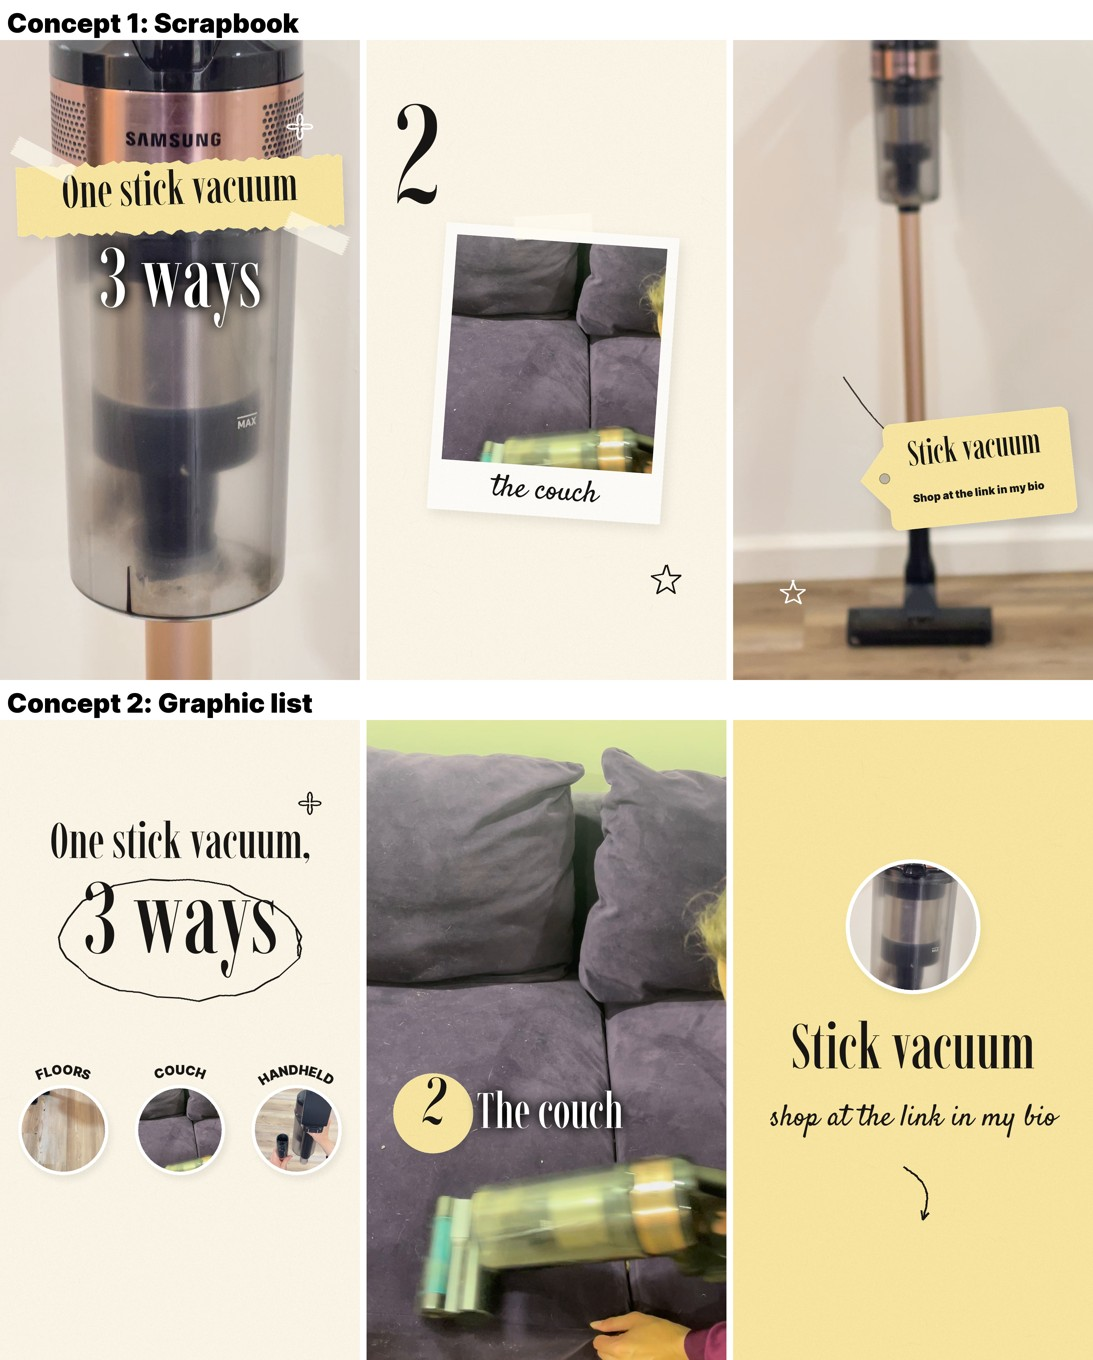
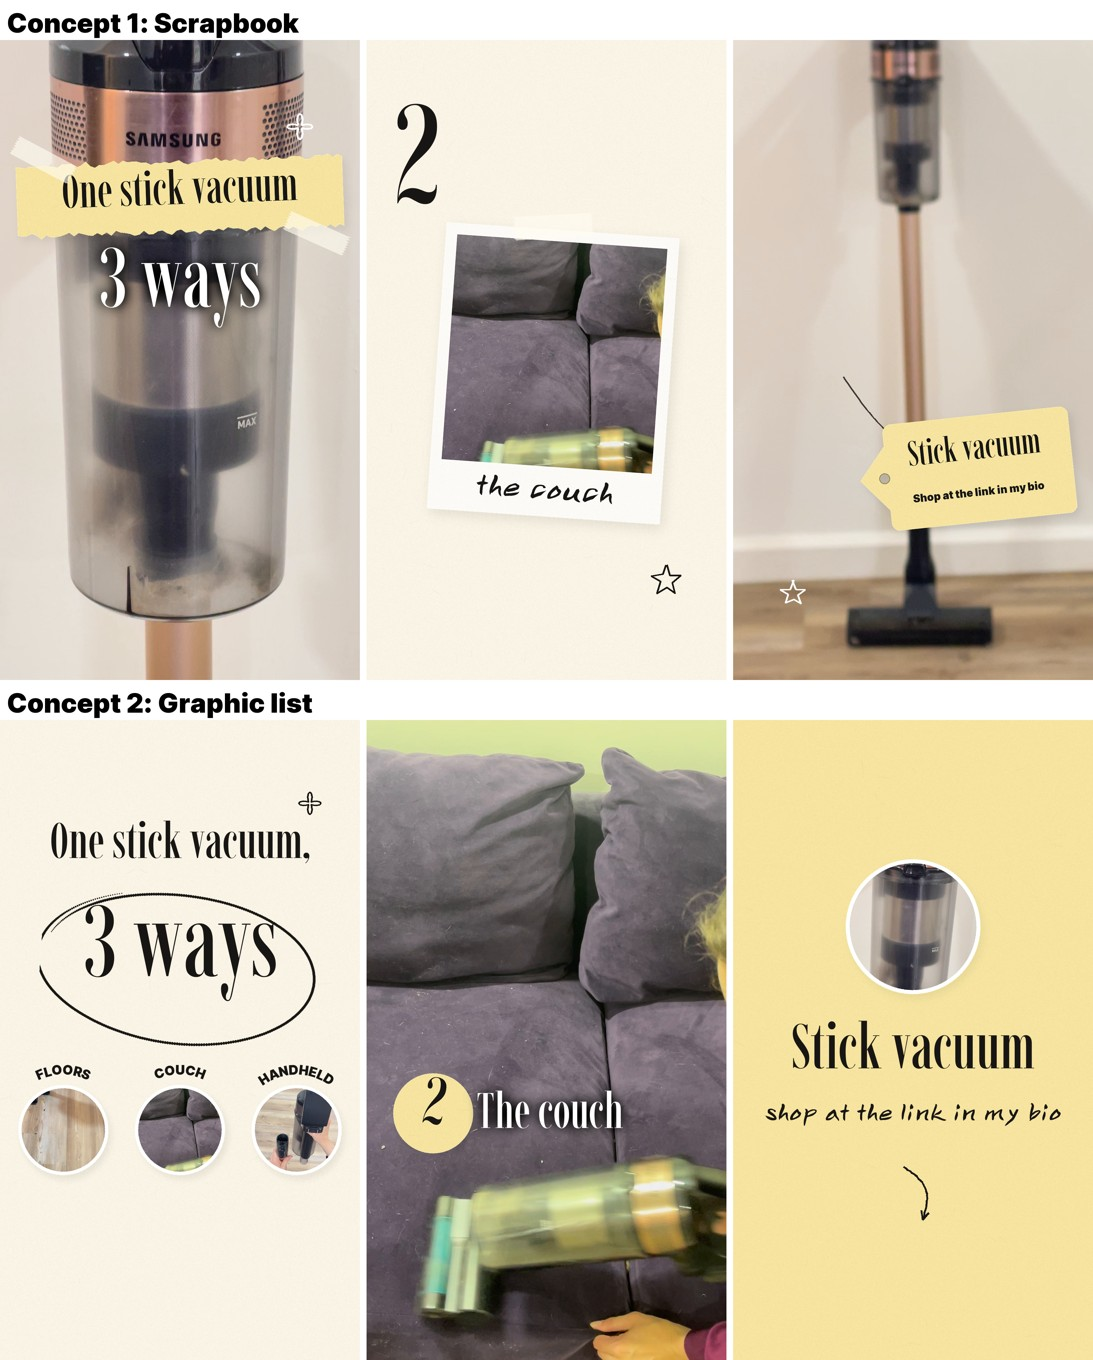
Reel Template Packs: casual handwriting font (JS Arirang PPURI) and a smoother pen loop in the concepts

diff --git a/automation/reel-template-pack/build/whimsy_concepts.py b/automation/reel-template-pack/build/whimsy_concepts.py
@@ -26,7 +26,7 @@ def scrap_hook(img):
 def scrap_label(img_clip):
     bg = C.paper((W, H), CREAM, seed=21)
     pol = C.polaroid(img_clip, (700, 860), seed=22)
-    d = ImageDraw.Draw(pol); f = F('satisfy', 92); t = 'the couch'
+    d = ImageDraw.Draw(pol); f = F('hand', 96); t = 'the couch'
     d.text((350 - d.textlength(t, font=f) / 2, 860 - 140), t, font=f, fill=INK)
     bg = C.place(bg, C.shadow(pol, blur=18, alpha=80), (560, 1000), -4)
     bg = C.place(bg, C.tape(240, 70, seed=23), (560, 560), 3)
@@ -49,8 +49,8 @@ def list_hook(clips):
     bg = C.paper((W, H), CREAM, seed=41)
     d = ImageDraw.Draw(bg)
     centered(d, 300, 'One stick vacuum,', F('imbue', 150), INK)
-    centered(d, 470, '3 ways', F('imbue', 300), INK)
-    bg = C.place(bg, C.hand_circle((720, 360), INK, 5, seed=42), (540, 660), -3)
+    centered(d, 540, '3 ways', F('imbue', 300), INK)
+    bg = C.place(bg, C.pen_loop((800, 440), INK, 8, seed=43), (540, 745), -4)
     names = ['FLOORS', 'COUCH', 'HANDHELD']
     for i, (clip, name) in enumerate(zip(clips, names)):
         cx = 190 + i * 350; cy = 1230
@@ -73,7 +73,7 @@ def list_cta(clip):
     bg = C.place(bg, C.shadow(C.round_photo(clip, 380, (255, 255, 255), 12), blur=12, alpha=60), (540, 620), -4)
     d = ImageDraw.Draw(bg)
     centered(d, 900, 'Stick vacuum', F('imbue', 190), INK)
-    centered(d, 1130, 'shop at the link in my bio', F('satisfy', 90), INK)
+    centered(d, 1130, 'shop at the link in my bio', F('hand', 78), INK)
     bg = C.place(bg, C.arrow(170, INK, 6, 40, seed=62).rotate(-70, expand=True), (540, 1420))
     return bg
 

diff --git a/automation/reel-template-pack/build/collage.py b/automation/reel-template-pack/build/collage.py
@@ -169,3 +169,20 @@ def hand_circle(size=(300, 140), color=(24, 22, 20), width=5, seed=9):
            for a in [i / 40 * 2.15 * math.pi - 0.3 for i in range(41)]]
     ImageDraw.Draw(im).line(pts, fill=color, width=width, joint='curve')
     return im
+
+def pen_loop(size=(760, 380), color=(24, 22, 20), width=9, turns=1.12, start_deg=200, seed=10, ss=3):
+    """A smooth hand-drawn loop: one pen stroke going around once and a bit, ends crossing, tapered at both ends.
+    Drawn 3x larger and scaled down so the edge is smooth."""
+    r = rng(seed); w, h = size; W2, H2 = (w + 40) * ss, (h + 40) * ss
+    im = Image.new('RGBA', (W2, H2), (0, 0, 0, 0)); d = ImageDraw.Draw(im)
+    ph1, ph2 = r.uniform(0, 6.28), r.uniform(0, 6.28)
+    n = 400; total = turns * 2 * math.pi; a0 = math.radians(start_deg)
+    for i in range(n + 1):
+        t = i / n; a = a0 + total * t
+        wob = 1 + 0.035 * math.sin(2 * a + ph1) + 0.02 * math.sin(3 * a + ph2) + 0.05 * t  # drifts outward a little
+        x = W2 / 2 + (w / 2) * ss * wob * math.cos(a)
+        y = H2 / 2 + (h / 2) * ss * wob * math.sin(a) * (1 - 0.06 * math.cos(a))  # slightly egg-shaped
+        taper = min(1, t / 0.08, (1 - t) / 0.12)
+        rad = max(1, width * ss / 2 * (0.35 + 0.65 * taper))
+        d.ellipse((x - rad, y - rad, x + rad, y + rad), fill=color + (255,) if len(color) == 3 else color)
+    return im.resize((w + 40, h + 40), Image.LANCZOS)

diff --git a/automation/reel-template-pack/build/style_options.py b/automation/reel-template-pack/build/style_options.py
@@ -19,6 +19,7 @@ FONTS = {  # name: CapCut resource id
     'satisfy': '7563929797689167105', 'bodoni': '7580184437816675601', 'imbue': '7533523619876523280',
     'montserrat': '7541303466296184080', 'inter': '7533517738157886721',
     'ellios': '7527221190125948161', 'truefate': '7525720839577144577',
+    'hand': '7480848031034772791',  # JS Arirang PPURI, casual pen handwriting
 }
 BUTTER, INK, CREAM = (246, 228, 160), (24, 22, 20), (255, 250, 238)
 
